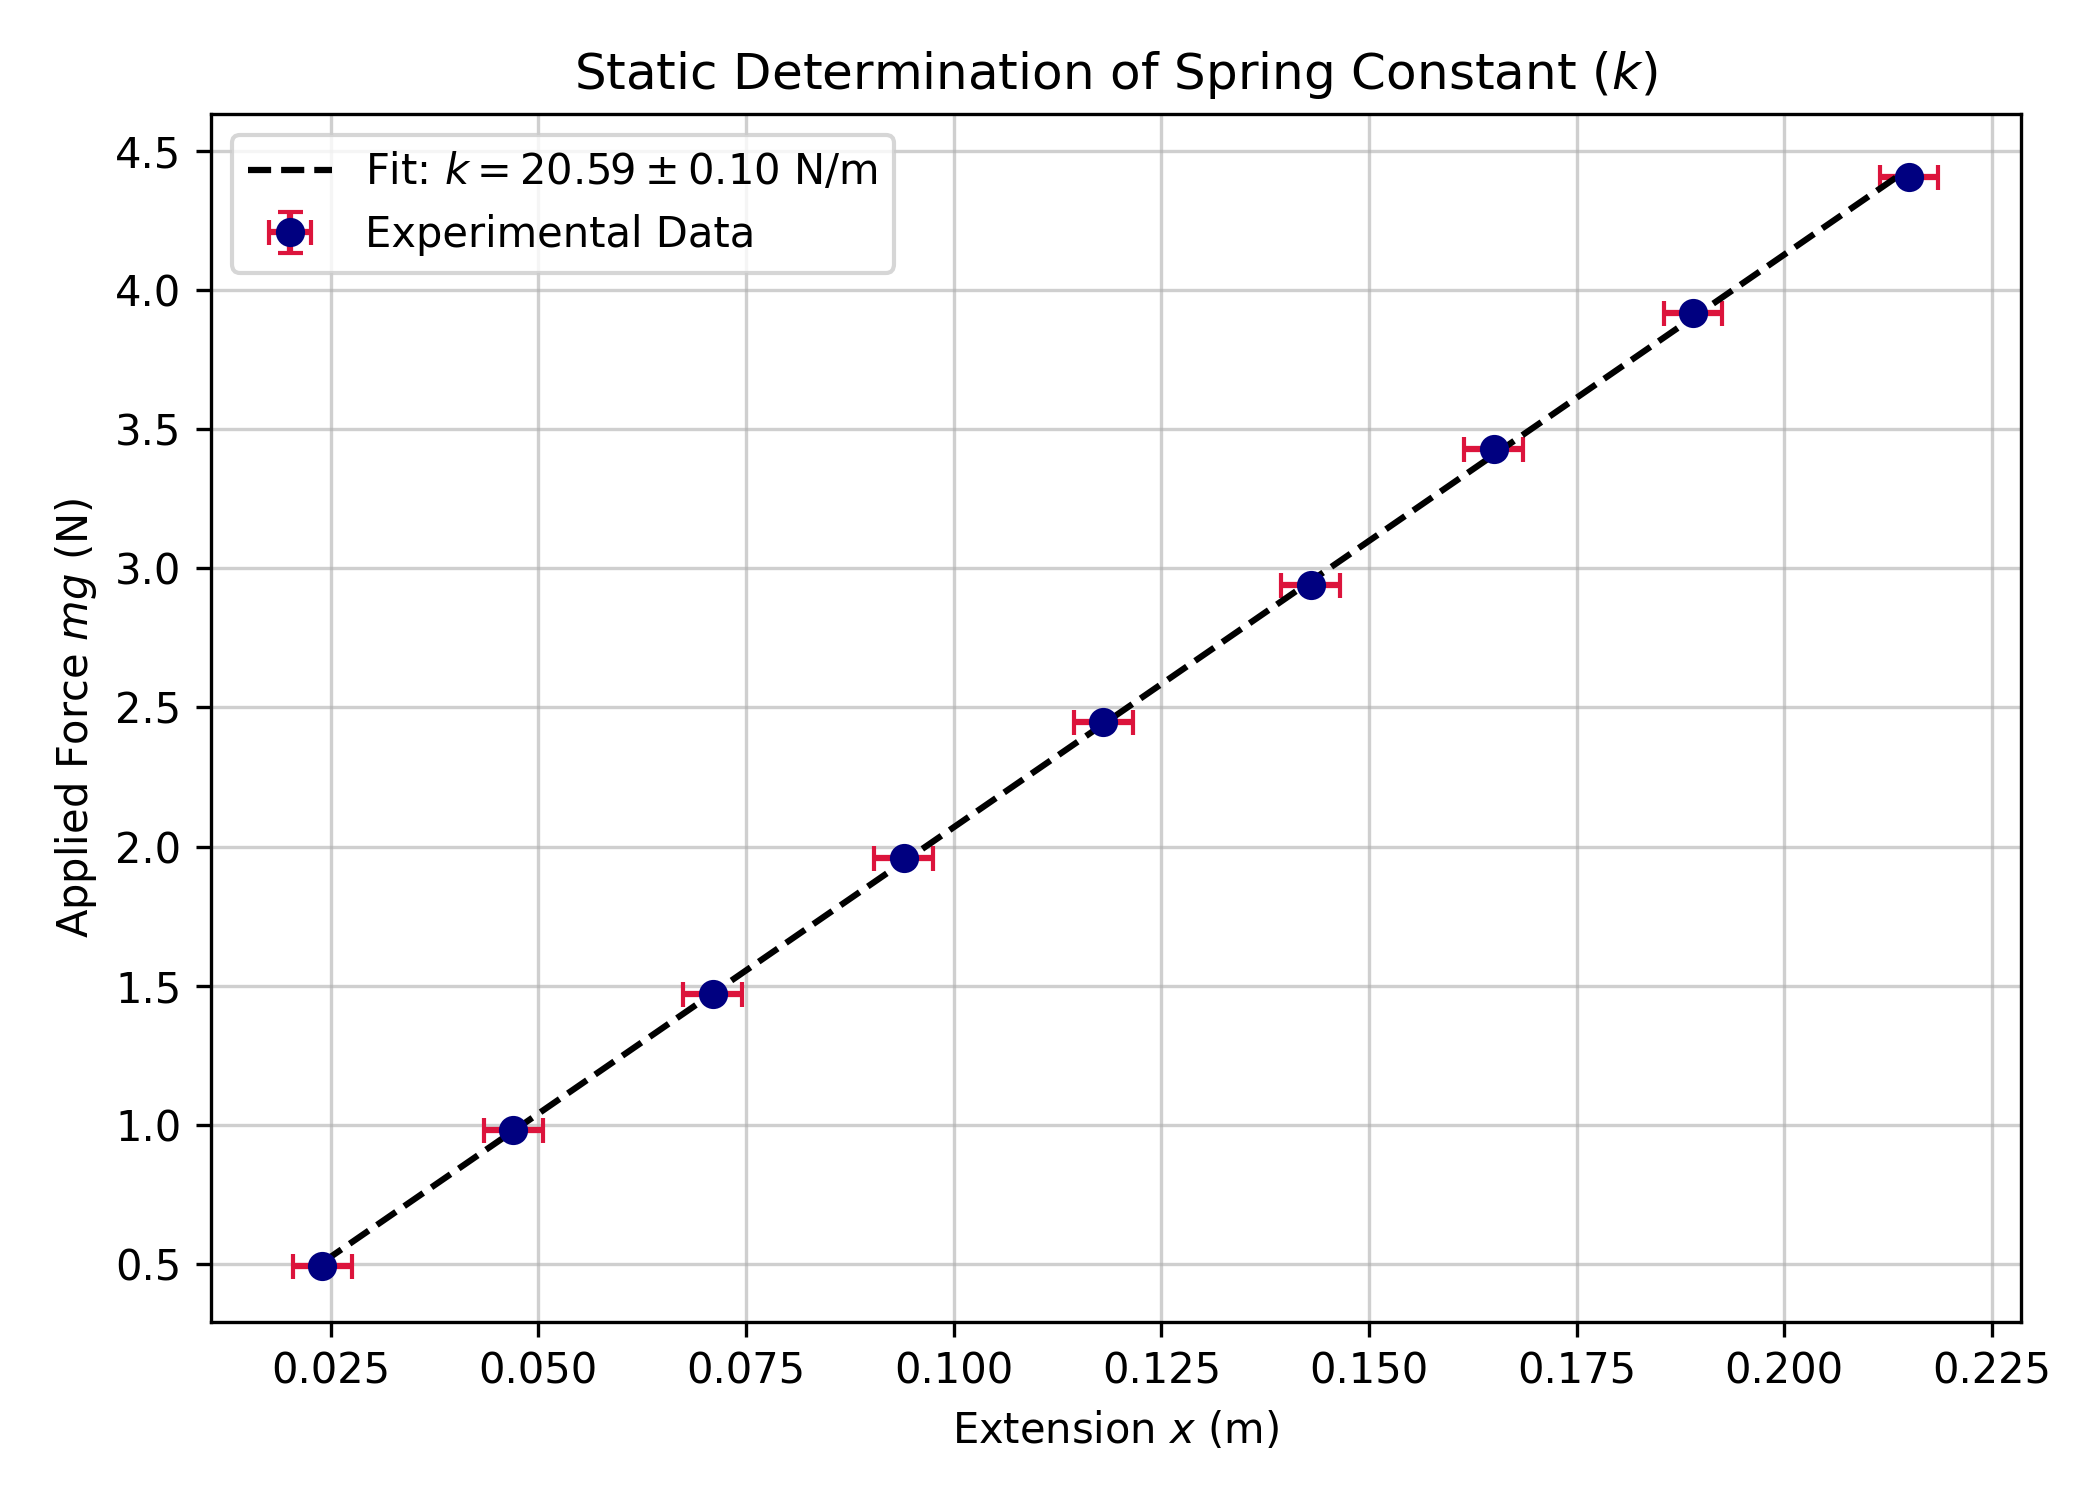
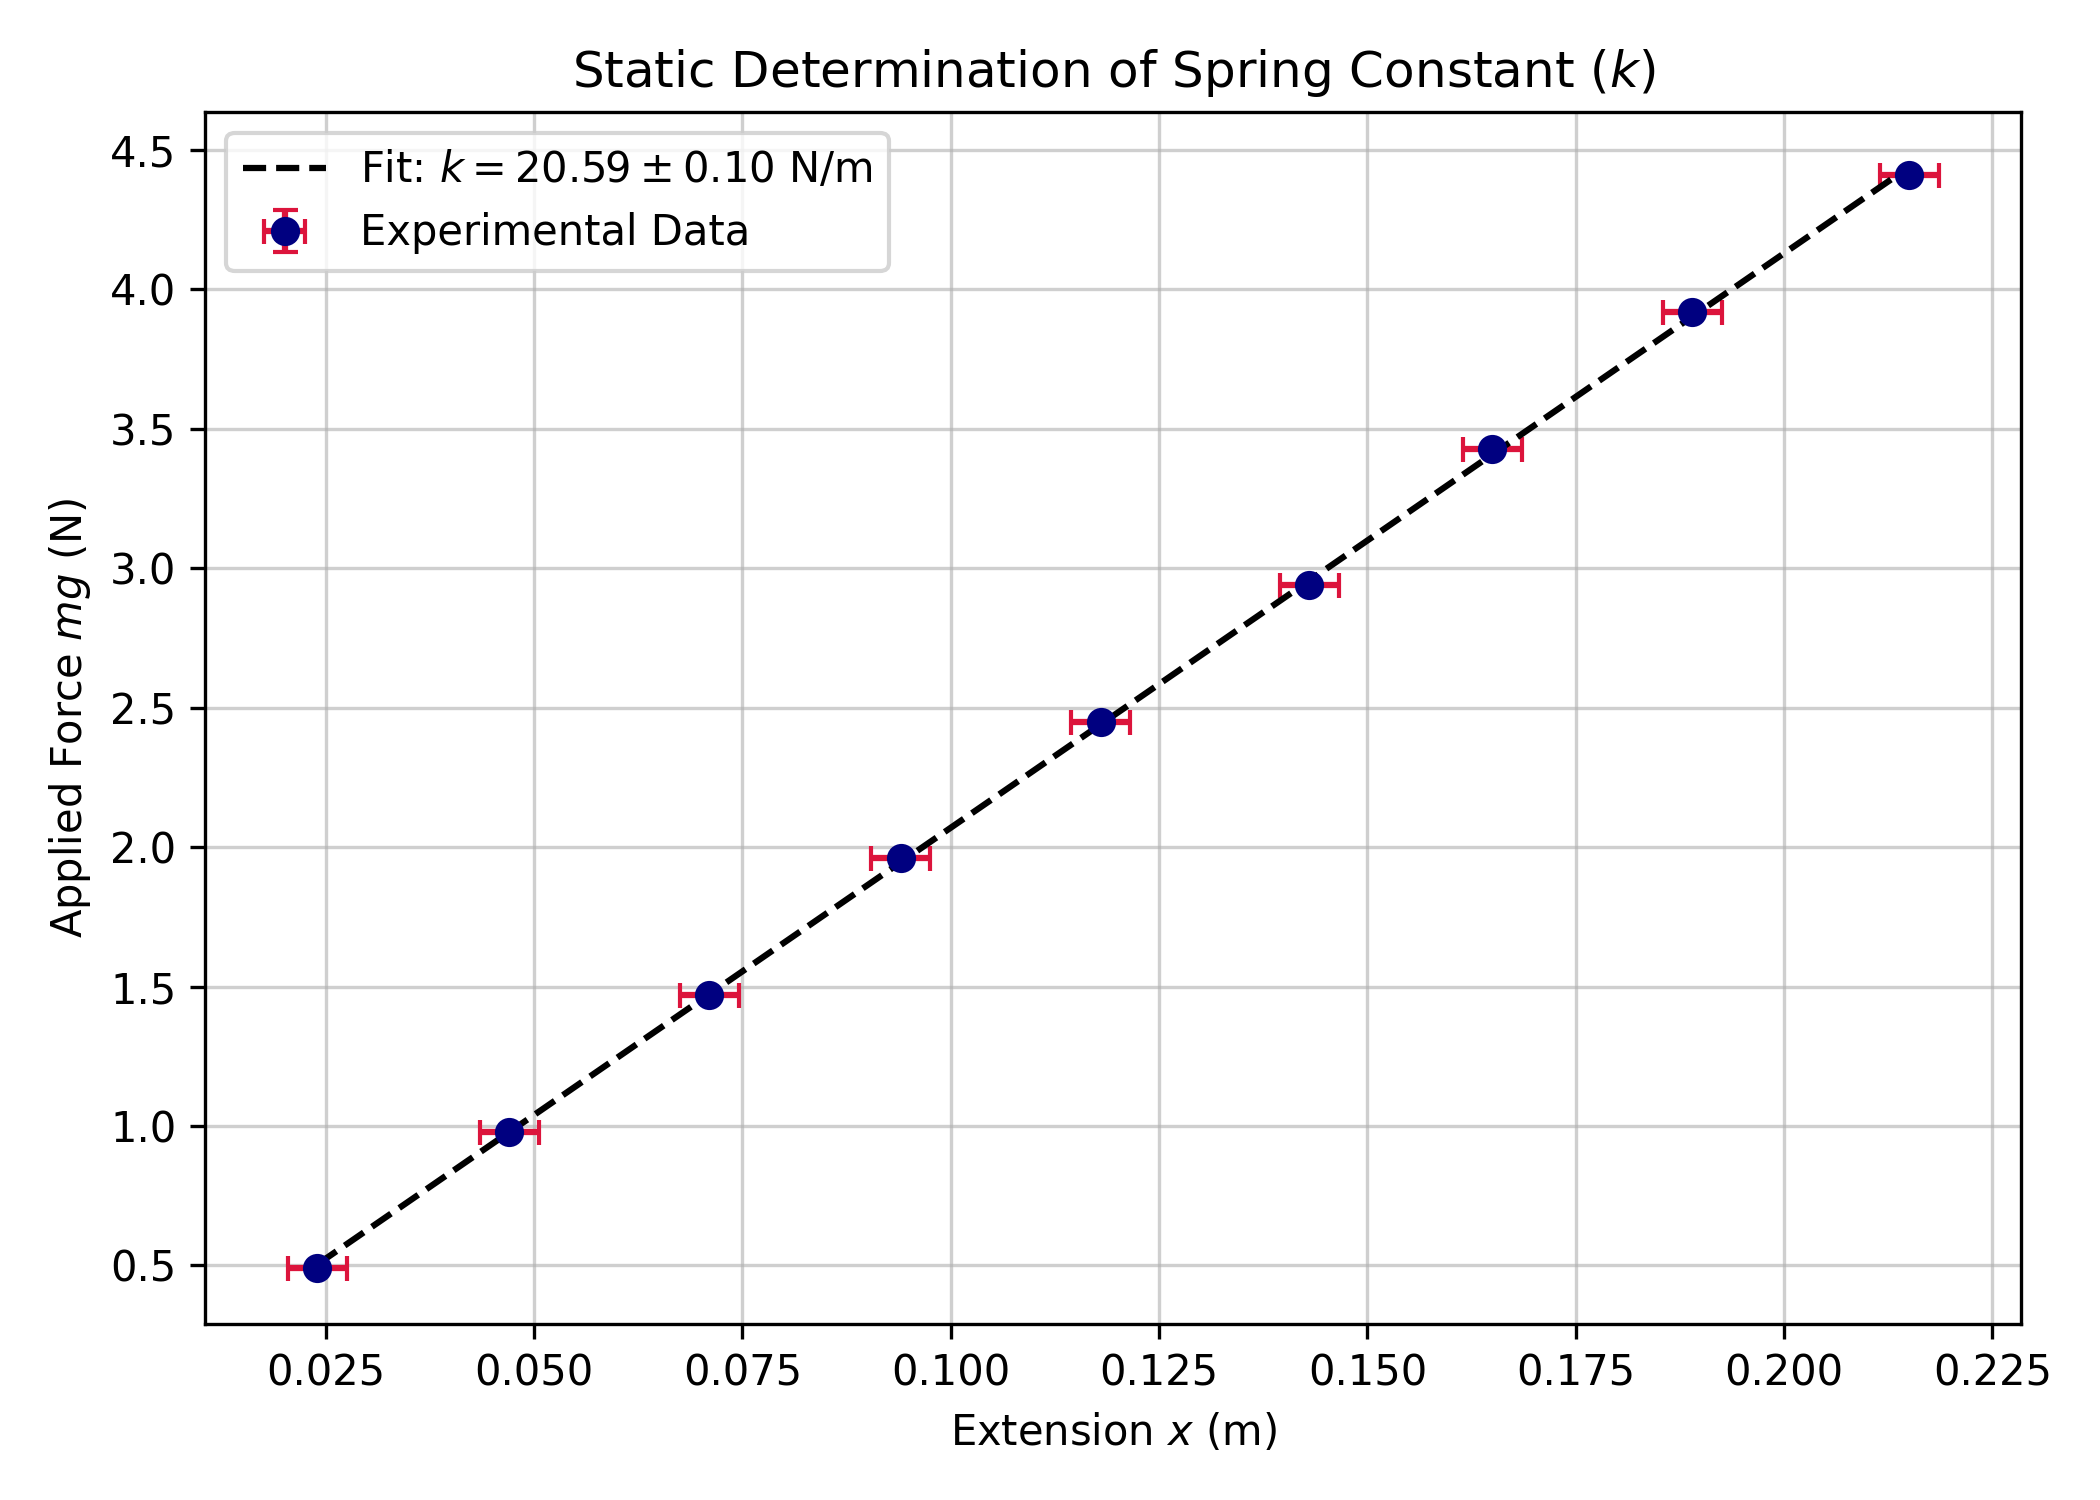
ERROR JSNEKFL

diff --git a/year 1/sem 2/phys1201/week 2/calc.py b/year 1/sem 2/phys1201/week 2/calc.py
@@ -95,7 +95,8 @@ def static_method():
                         41.8,
                         44.3,
                         46.5,
-                        48.9]
+                        48.9,
+                        51.5]
     total_lengths_m = [ufloat(L / 100.0, 0.0025) for L in total_lengths_cm]
     total_masses = [i * m_slot for i in range(1, 10)]
     force = [m * g for m in total_masses]
